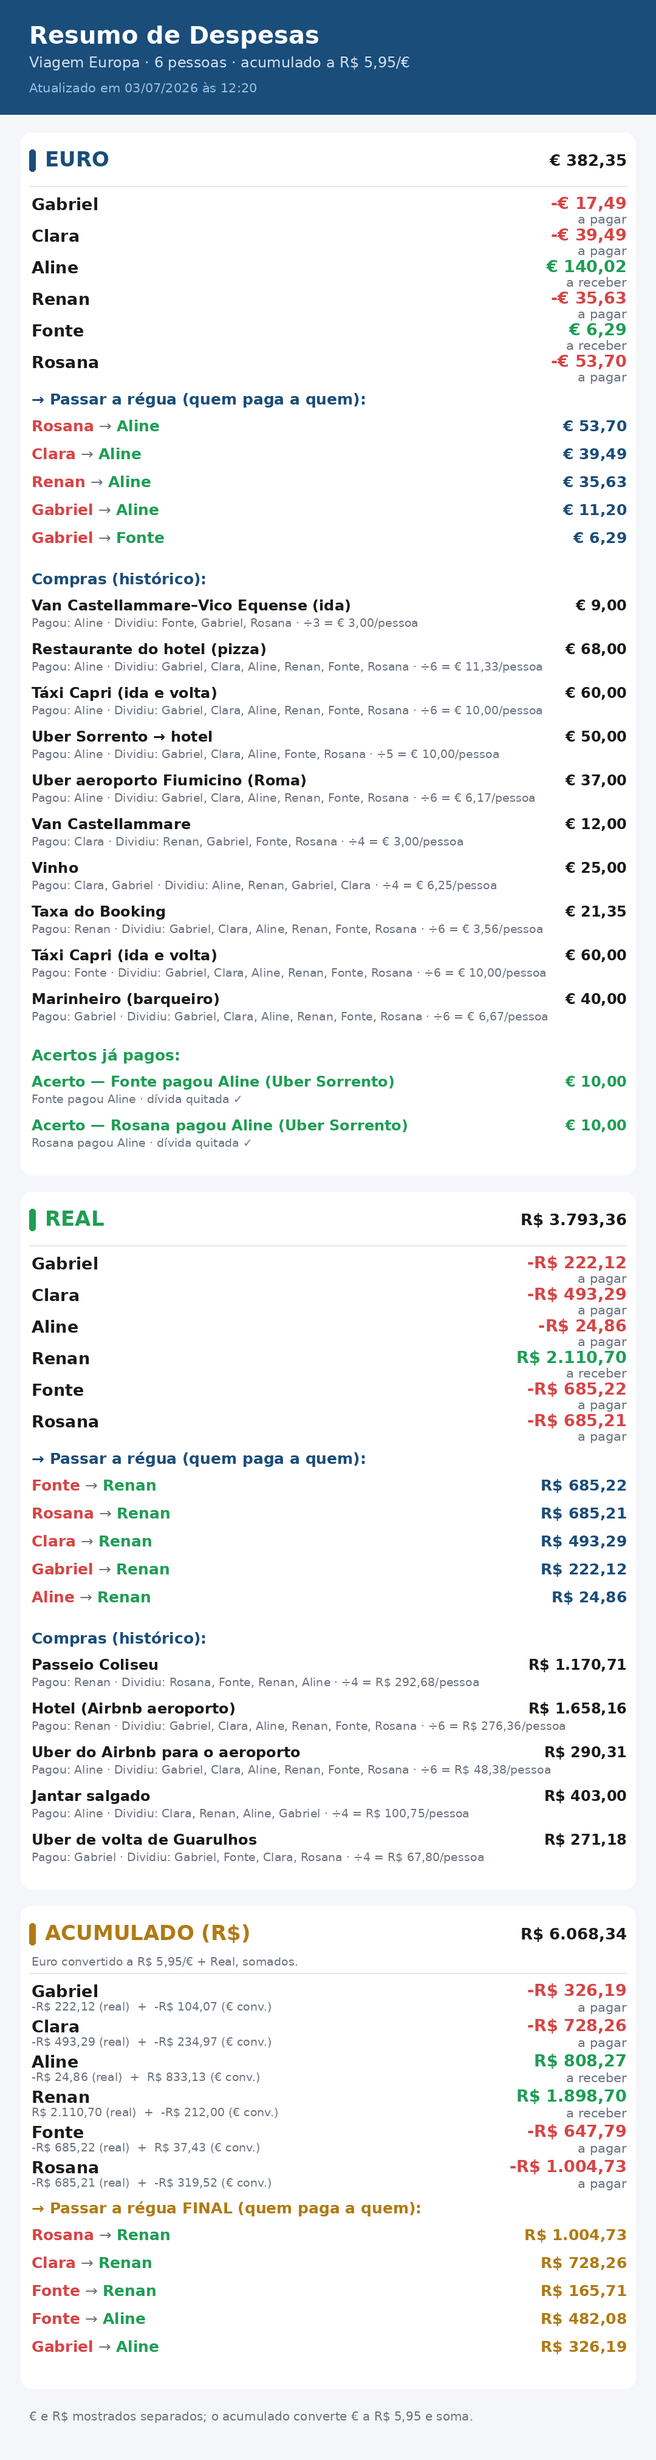
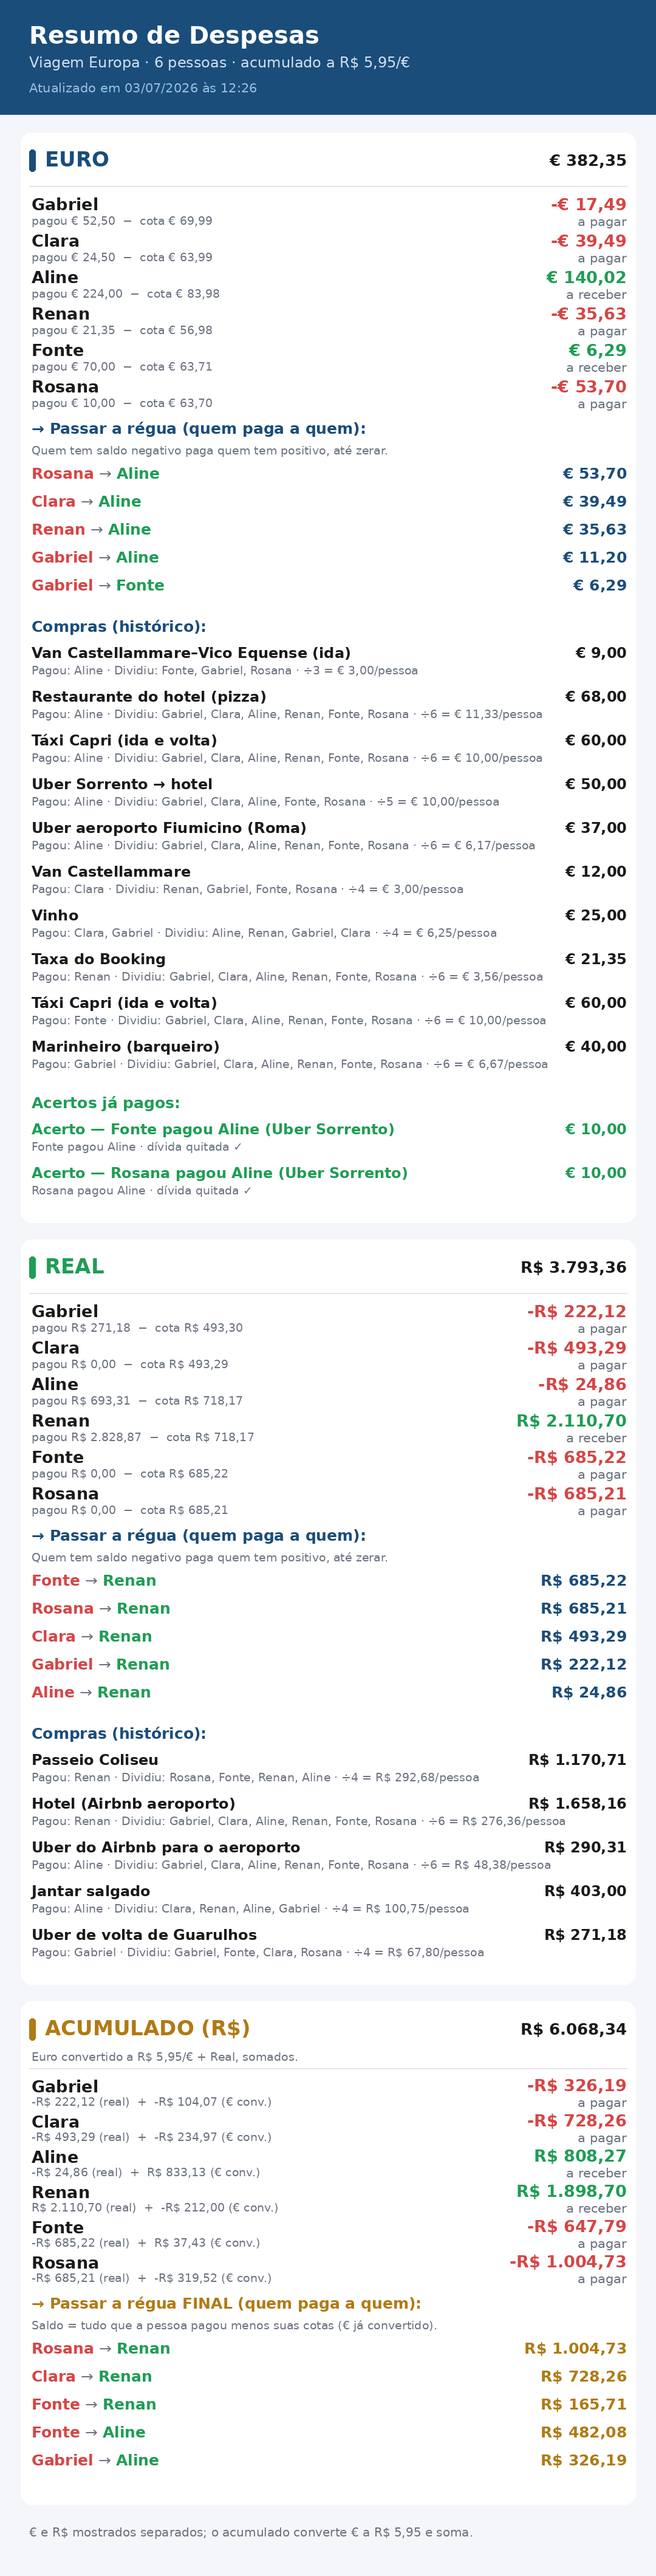
Auditoria independente + resumo mais didático (pagou/cota por pessoa)
Adiciona auditoria.py: recalcula tudo com lógica própria, valida
conservação por lançamento, soma zero por moeda, conversão e acerto
(reconstrói saldos a partir das transferências) e cruza com o gerador.
Todas as verificações passam. O resumo agora mostra, por pessoa,
"pagou X − cota Y → saldo" e explica a lógica de quem paga a quem.

Claude-Session: https://claude.ai/code/session_01WZZUhXQ16qMQfhyK5EDhBH

diff --git a/auditoria.py b/auditoria.py
@@ -1,0 +1,181 @@
+#!/usr/bin/env python3
+# -*- coding: utf-8 -*-
+"""
+AUDITORIA INDEPENDENTE das contas da viagem.
+
+Recalcula tudo do zero (lógica própria, sem reaproveitar o gerador),
+verifica as leis de conservação e, por fim, compara os resultados com
+os do gerador da imagem (gerar_resumo.py). Só passa se TODAS as
+verificações baterem.
+
+Uso: python3 auditoria.py
+"""
+import json, subprocess, os, sys
+
+PEOPLE = ["Gabriel", "Clara", "Aline", "Renan", "Fonte", "Rosana"]
+RATE = 5.95
+HERE = os.path.dirname(os.path.abspath(__file__))
+
+falhas = []
+def check(cond, msg):
+    status = "OK  " if cond else "FALHA"
+    if not cond:
+        falhas.append(msg)
+    print(f"  [{status}] {msg}")
+    return cond
+
+# ---------- parsing próprio (independente do gerador) ----------
+def parse_cents(v):
+    s = str(v).strip()
+    if "," in s and "." in s:
+        s = s.replace(".", "").replace(",", ".")
+    else:
+        s = s.replace(",", ".")
+    return int(round(float(s) * 100))
+
+def split_cents(total, n):
+    base, rem = divmod(total, n)
+    return [base + (1 if i < rem else 0) for i in range(n)]
+
+def load():
+    out = subprocess.check_output(
+        ["node", "-e",
+         "global.window={};require('./lancamentos.js');"
+         "process.stdout.write(JSON.stringify(global.window.LANCAMENTOS||[]))"],
+        cwd=HERE)
+    return json.loads(out.decode("utf-8"))
+
+def brl(c):  # formata em reais
+    s = f"{abs(c)/100:,.2f}".replace(",", "X").replace(".", ",").replace("X", ".")
+    return ("-" if c < 0 else "") + "R$ " + s
+
+def eur(c):
+    s = f"{abs(c)/100:,.2f}".replace(",", "X").replace(".", ",").replace("X", ".")
+    return ("-" if c < 0 else "") + "€ " + s
+
+# ---------- 1. conservação por lançamento ----------
+print("\n=== 1. Conservação por lançamento (pago = devido, em centavos) ===")
+raw = load()
+exps = []
+for e in raw:
+    cents = parse_cents(e["valor"])
+    pagou, dividir = e["pagou"], e["dividir"]
+    paid_parts = split_cents(cents, len(pagou))
+    owed_parts = split_cents(cents, len(dividir))
+    ok = (sum(paid_parts) == cents) and (sum(owed_parts) == cents)
+    check(ok, f'{e["moeda"]} {e["desc"][:38]:38} {cents:>7}c  pago={sum(paid_parts)} devido={sum(owed_parts)}')
+    exps.append({**e, "cents": cents})
+
+# ---------- 2. saldos por moeda ----------
+def balances(moeda):
+    paid = {n: 0 for n in PEOPLE}
+    owed = {n: 0 for n in PEOPLE}
+    total = 0
+    for e in exps:
+        if e["moeda"] != moeda:
+            continue
+        if e.get("tipo") != "acerto":
+            total += e["cents"]
+        for n, c in zip(e["pagou"], split_cents(e["cents"], len(e["pagou"]))):
+            paid[n] += c
+        for n, c in zip(e["dividir"], split_cents(e["cents"], len(e["dividir"]))):
+            owed[n] += c
+    bal = {n: paid[n] - owed[n] for n in PEOPLE}
+    return total, paid, owed, bal
+
+print("\n=== 2. Saldos por pessoa e soma zero ===")
+eur_total, eur_paid, eur_owed, eur_bal = balances("EUR")
+brl_total, brl_paid, brl_owed, brl_bal = balances("BRL")
+for moeda, tot, paid, owed, bal, f in [("EUR", eur_total, eur_paid, eur_owed, eur_bal, eur),
+                                       ("BRL", brl_total, brl_paid, brl_owed, brl_bal, brl)]:
+    print(f"  -- {moeda} -- total em compras: {f(tot)}")
+    for n in PEOPLE:
+        print(f"     {n:8} pagou {f(paid[n]):>12}  cota {f(owed[n]):>12}  saldo {f(bal[n]):>12}")
+    check(sum(bal.values()) == 0, f"{moeda}: soma dos saldos = {sum(bal.values())} (deve ser 0)")
+
+# ---------- 3. conversão e acumulado ----------
+print("\n=== 3. Conversão (€ -> R$ 5,95) e acumulado ===")
+conv = {n: int(round(eur_bal[n] * RATE)) for n in PEOPLE}
+residual = -sum(conv.values())
+alvo = max(PEOPLE, key=lambda n: abs(conv[n]))
+if residual != 0:
+    conv[alvo] += residual
+check(abs(residual) <= 3, f"resíduo de arredondamento da conversão = {residual}c (ajustado em {alvo})")
+comb = {n: brl_bal[n] + conv[n] for n in PEOPLE}
+acum_total = brl_total + int(round(eur_total * RATE))
+print(f"  total acumulado: {brl(acum_total)}")
+for n in PEOPLE:
+    print(f"     {n:8} real {brl(brl_bal[n]):>12}  + € conv {brl(conv[n]):>12}  = {brl(comb[n]):>12}")
+check(sum(comb.values()) == 0, f"acumulado: soma dos saldos = {sum(comb.values())} (deve ser 0)")
+
+# ---------- 4. acerto (settlement) e validação ----------
+def settle(bal):
+    cr = sorted([[n, bal[n]] for n in PEOPLE if bal[n] > 0], key=lambda x: -x[1])
+    de = sorted([[n, -bal[n]] for n in PEOPLE if bal[n] < 0], key=lambda x: -x[1])
+    tx, i, j = [], 0, 0
+    while i < len(de) and j < len(cr):
+        p = min(de[i][1], cr[j][1])
+        if p > 0:
+            tx.append((de[i][0], cr[j][0], p))
+        de[i][1] -= p; cr[j][1] -= p
+        if de[i][1] == 0: i += 1
+        if cr[j][1] == 0: j += 1
+    return tx
+
+def audit_settlement(nome, bal, tx):
+    print(f"\n=== 4.{nome} Acerto '{nome}' ===")
+    # reconstrói saldos a partir das transferências
+    recon = {n: 0 for n in PEOPLE}
+    all_pos = True
+    for frm, to, amt in tx:
+        recon[frm] -= amt
+        recon[to] += amt
+        if amt <= 0:
+            all_pos = False
+    check(all_pos, f"{nome}: todas as transferências são positivas")
+    ok_recon = all(recon[n] == bal[n] for n in PEOPLE)
+    check(ok_recon, f"{nome}: transferências reconstroem exatamente os saldos")
+    total_transf = sum(a for _, _, a in tx)
+    total_credito = sum(v for v in bal.values() if v > 0)
+    check(total_transf == total_credito, f"{nome}: soma das transferências ({total_transf}c) = total a receber ({total_credito}c)")
+    check(len(tx) <= len(PEOPLE) - 1, f"{nome}: nº de transferências ({len(tx)}) <= {len(PEOPLE)-1}")
+    for frm, to, amt in tx:
+        print(f"     {frm} -> {to}: {bal is comb and brl(amt) or ''}")
+    return recon
+
+eur_tx = settle(eur_bal)
+brl_tx = settle(brl_bal)
+comb_tx = settle(comb)
+audit_settlement("EUR", eur_bal, eur_tx)
+audit_settlement("BRL", brl_bal, brl_tx)
+audit_settlement("ACUM", comb, comb_tx)
+print("  Transferências do acumulado (final):")
+for frm, to, amt in comb_tx:
+    print(f"     {frm} -> {to}: {brl(amt)}")
+
+# ---------- 5. cruzamento com o gerador (gerar_resumo.py) ----------
+print("\n=== 5. Cruzamento com o gerador da imagem (implementação separada) ===")
+try:
+    import gerar_resumo as G
+    gexps = G.load_expenses()
+    get, _, _, geb = G.compute(gexps, "EUR")
+    gbt, _, _, gbb = G.compute(gexps, "BRL")
+    gcomb, gconv = G.combined_balances(geb, gbb)
+    check(get == eur_total and gbt == brl_total, f"totais batem (EUR {get}={eur_total}, BRL {gbt}={brl_total})")
+    check(all(geb[n] == eur_bal[n] for n in PEOPLE), "saldos EUR batem com o gerador")
+    check(all(gbb[n] == brl_bal[n] for n in PEOPLE), "saldos BRL batem com o gerador")
+    check(all(gcomb[n] == comb[n] for n in PEOPLE), "saldos ACUMULADOS batem com o gerador")
+    gtx = G.settle(gcomb)
+    check(gtx == comb_tx, "acerto final idêntico ao do gerador")
+except Exception as ex:
+    check(False, f"erro ao cruzar com o gerador: {ex}")
+
+# ---------- resultado ----------
+print("\n" + "=" * 50)
+if falhas:
+    print(f"RESULTADO: {len(falhas)} FALHA(S):")
+    for f in falhas:
+        print("  -", f)
+    sys.exit(1)
+else:
+    print("RESULTADO: TUDO CERTO ✓  (todas as verificações passaram)")

diff --git a/gerar_resumo.py b/gerar_resumo.py
@@ -186,9 +186,10 @@ def card_height(rows, tx, compras, acertos, sym):
     h = 24            # top pad
     h += 64           # section title
     h += 14           # after line
-    h += len(rows) * 52
+    h += len(rows) * 60
     h += 10
     h += 44           # settlement title
+    h += 30           # explicação da lógica
     h += max(1, len(tx)) * 46
     h += 22           # gap
     h += 44           # compras title
@@ -223,7 +224,7 @@ def draw_image(exps):
     acum_tx = settle(comb)
 
     def acum_card_height(tx):
-        return 24 + 64 + 36 + 14 + len(PEOPLE) * 58 + 10 + 44 + max(1, len(tx)) * 46 + 24
+        return 24 + 64 + 36 + 14 + len(PEOPLE) * 58 + 10 + 44 + 34 + max(1, len(tx)) * 46 + 24
 
     HEAD_H = 188
     total_h = HEAD_H + 30
@@ -261,21 +262,26 @@ def draw_image(exps):
         d.line([PAD, cy, W - PAD, cy], fill=C_LINE, width=2)
         cy += 14
 
-        # saldos
+        # saldos (com o porquê: pagou vs cota)
         for n in rows:
             v = bal[n]
             d.text((PAD + 4, cy), n, font=f_name, fill=C_TEXT)
+            brk = "pagou " + fmt(paid[n], sym) + "  −  cota " + fmt(owed[n], sym)
+            d.text((PAD + 4, cy + 32), brk, font=f_small, fill=C_MUTED)
             if v > 0:   txt, col, lbl = fmt(v, sym), C_GREEN, "a receber"
             elif v < 0: txt, col, lbl = fmt(v, sym), C_RED, "a pagar"
             else:       txt, col, lbl = fmt(0, sym), C_MUTED, "quitado"
-            d.text((W - PAD - _md.textlength(txt, font=f_val), cy - 2), txt, font=f_val, fill=col)
-            d.text((W - PAD - _md.textlength(lbl, font=f_lbl), cy + 28), lbl, font=f_lbl, fill=C_MUTED)
-            cy += 52
+            d.text((W - PAD - _md.textlength(txt, font=f_val), cy), txt, font=f_val, fill=col)
+            d.text((W - PAD - _md.textlength(lbl, font=f_lbl), cy + 32), lbl, font=f_lbl, fill=C_MUTED)
+            cy += 60
 
         cy += 10
         # acerto
         d.text((PAD + 4, cy), "→ Passar a régua (quem paga a quem):", font=f_txb, fill=C_HEAD)
-        cy += 44
+        cy += 40
+        d.text((PAD + 4, cy), "Quem tem saldo negativo paga quem tem positivo, até zerar.",
+               font=f_small, fill=C_MUTED)
+        cy += 34
         if not tx:
             d.text((PAD + 4, cy), "Tudo quitado.", font=f_tx, fill=C_MUTED); cy += 46
         for (frm, to, amt) in tx:
@@ -348,7 +354,10 @@ def draw_image(exps):
 
     cy += 10
     d.text((PAD + 4, cy), "→ Passar a régua FINAL (quem paga a quem):", font=f_txb, fill=C_GOLD)
-    cy += 44
+    cy += 40
+    d.text((PAD + 4, cy), "Saldo = tudo que a pessoa pagou menos suas cotas (€ já convertido).",
+           font=f_small, fill=C_MUTED)
+    cy += 34
     if not acum_tx:
         d.text((PAD + 4, cy), "Tudo quitado.", font=f_tx, fill=C_MUTED); cy += 46
     for (frm, to, amt) in acum_tx:
